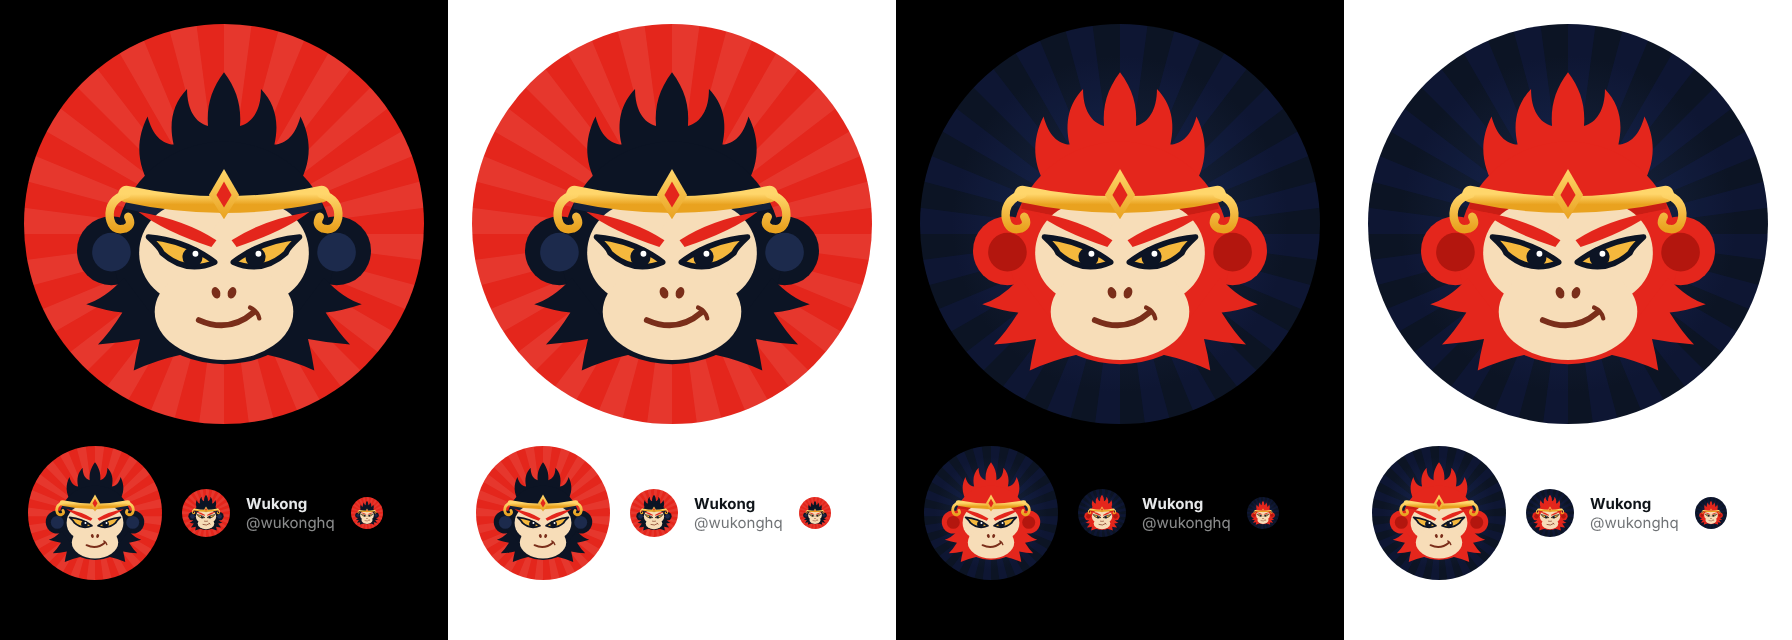
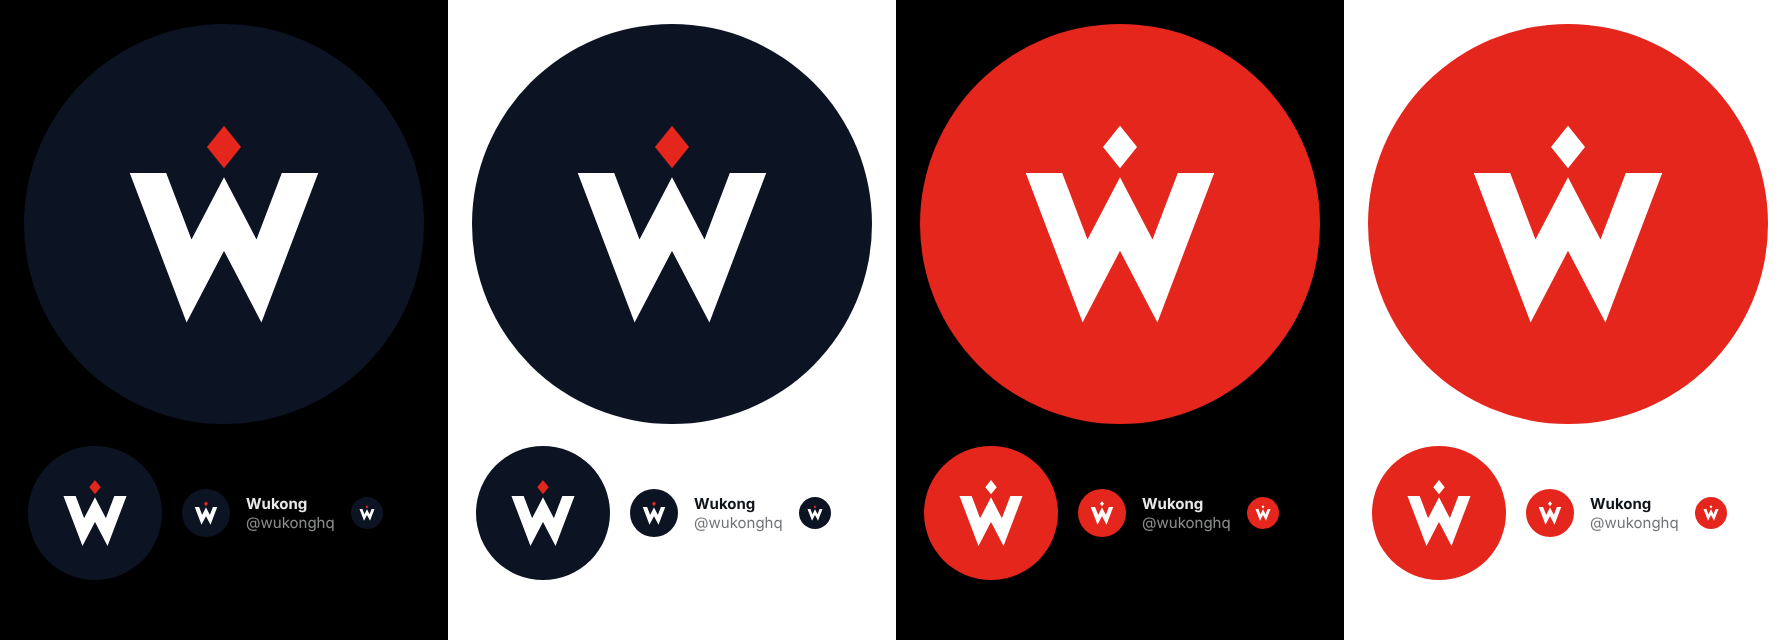
Replace mascot profile picture with a W mark
The cartoon Monkey King read as a personal avatar. The new mark is a
flat W with the circlet jewel above it: white on navy with a red gem
(main), and all white on signal red (alternate).

Claude-Session: https://claude.ai/code/session_015Tp51Jnm8AVHwTP1ED7L5g

diff --git a/design/README.md b/design/README.md
@@ -19,11 +19,11 @@ The same language as the demo film in [`video/`](../video/).
 
 ## Profile picture
 
-The Monkey King mark for X and other social accounts: golden circlet, fiery golden eyes, a smirk. Everything sits inside the circle X crops to, and it still reads at 32px.
+The W mark for X and other social accounts: a sharp W with the jewel from the Monkey King's circlet above it, in the same red as the dot in the wordmark. Everything sits inside the circle X crops to, and it still reads at 32px.
 
-| Main (signal red) | Alternate (navy) |
+| Main (navy) | Alternate (signal red) |
 |---|---|
-| ![Profile picture, red](brand/wukong-pfp-400.png) | ![Profile picture, navy](brand/wukong-pfp-navy-400.png) |
+| ![Profile picture, navy](brand/wukong-pfp-400.png) | ![Profile picture, red](brand/wukong-pfp-red-400.png) |
 
 Upload [`brand/wukong-pfp.png`](brand/wukong-pfp.png) (1000×1000). The SVGs in [`brand/`](brand/) are the sources, and [`brand/x-preview.png`](brand/x-preview.png) shows both at X's display sizes in light and dark mode.
 
